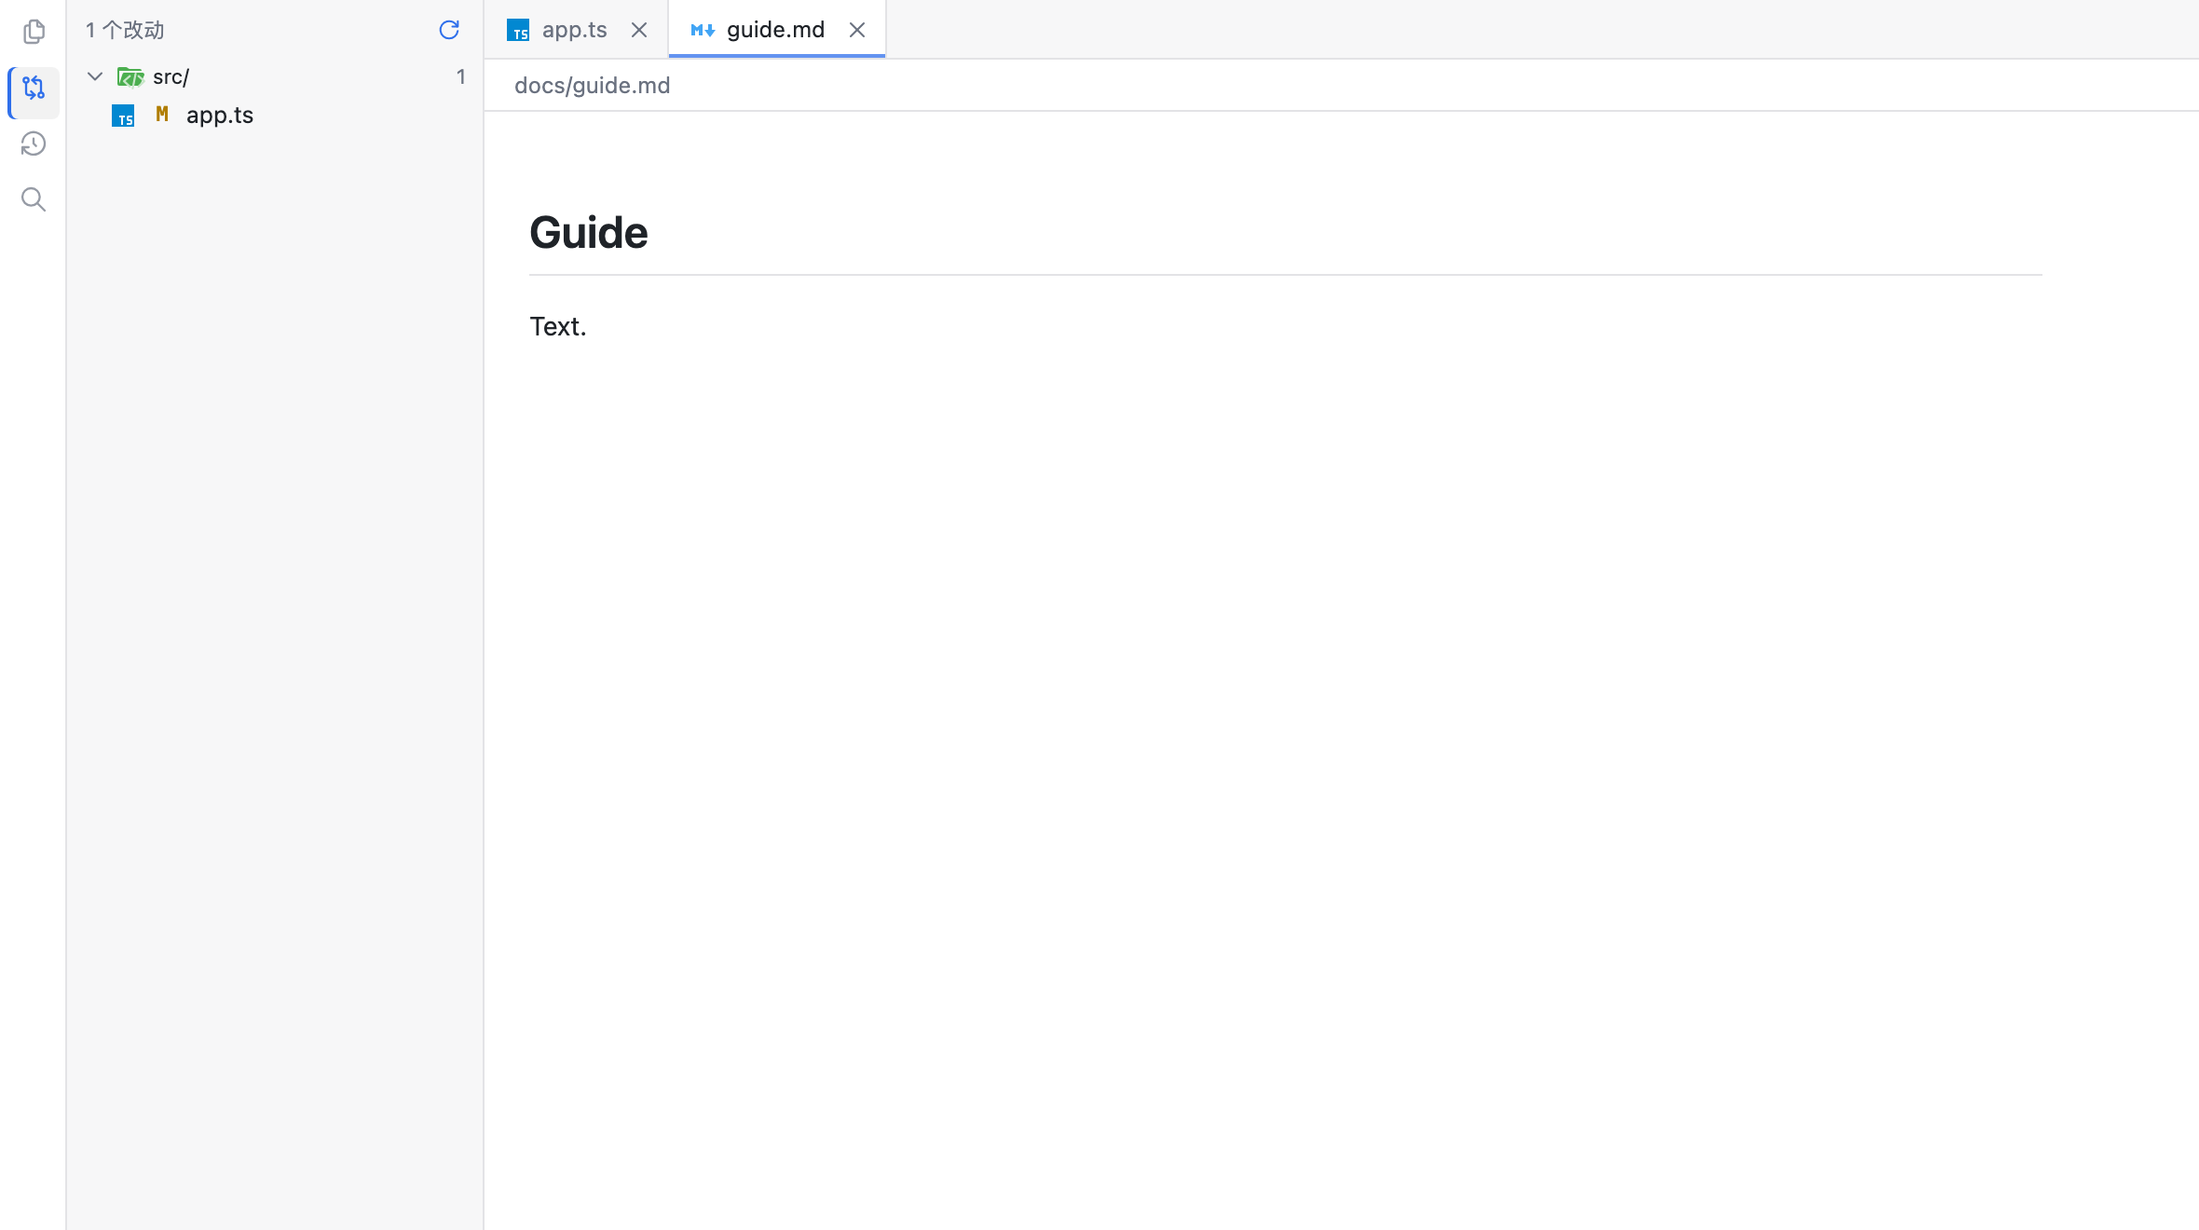
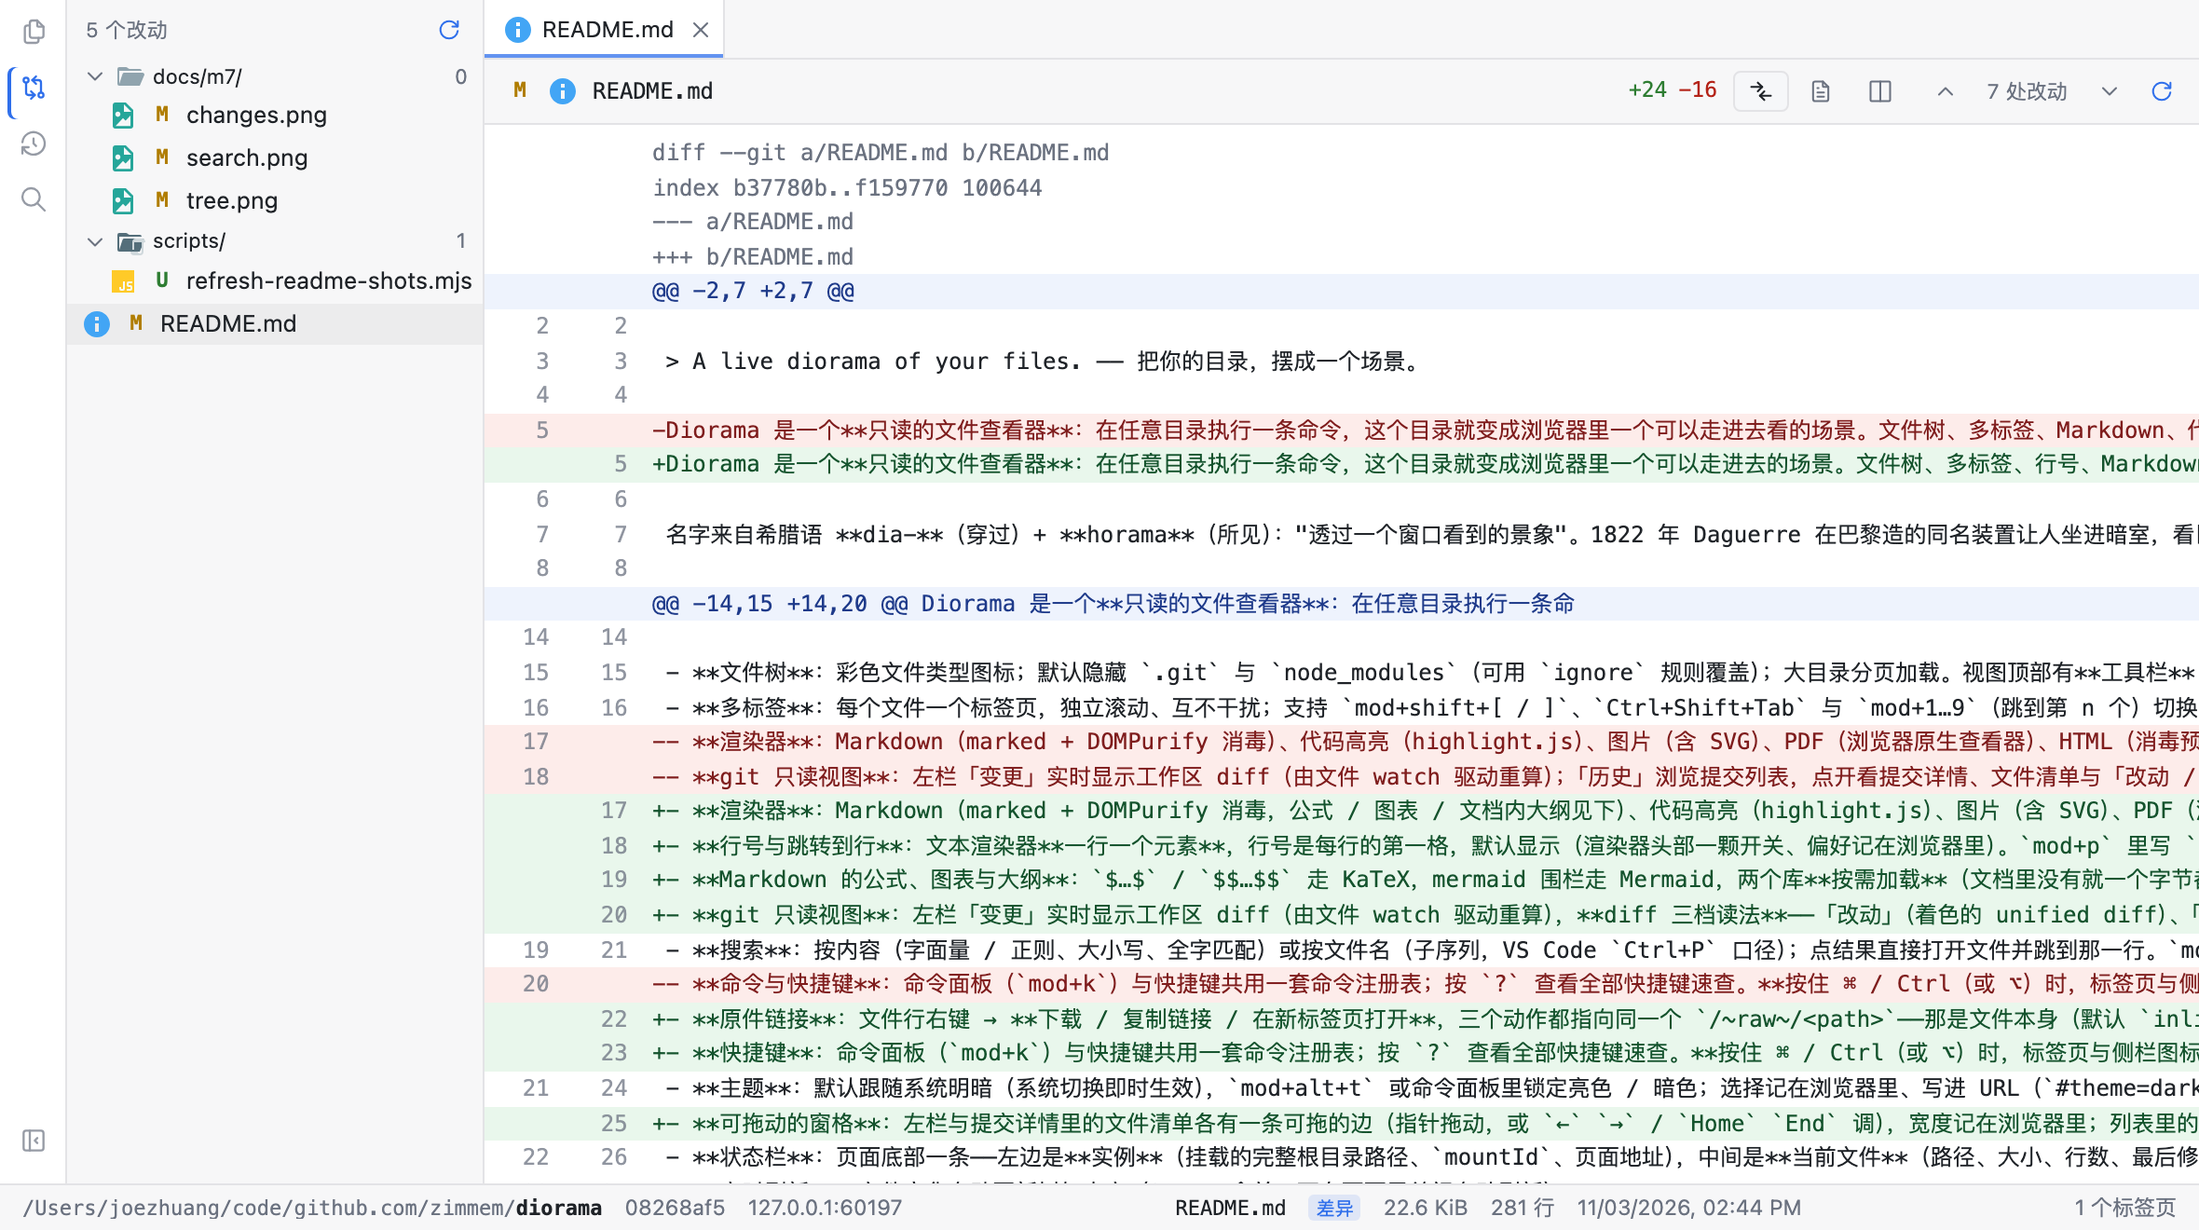
docs(readme): the page the features landed on, and screenshots that show it
The README described the project as of v0.6: no line numbers, no status bar,
no multi-repository git, no raw-file links, no draggable panes, no index page,
and test counts two releases stale (438/174 against a real 448/179). A reader
arriving from npm had no way to see what the thing looks like at all.

The feature list now follows what ships: line numbers and go-to-line, the
Markdown formulas/diagrams/outline, the three diff readers with highlighting,
several repositories in one mount (grouped in changes, a picker in history),
the raw-file link behind the row menu, draggable panes and the folding
sidebar, the IDE-shaped tab keys, the status bar, the gateway index page.
The config sample gains `[git] ignore`, which was implemented but never
written down, and the plugin table says what each piece actually does now.

The picture at the top was three shots from M7 - a fixture directory with two
tabs and no status bar. They are re-taken against this checkout, where the
tree, the diff and the search results are real: source files with line
numbers, the README's own diff in the two-column reader, a content search with
its hits marked. Six more join them in the same table - history, the palette,
the shortcut sheet, the row menu, the README rendered as Markdown with its
outline, and the dark palette - so the gallery stays one table of three
columns instead of a separate section.

`scripts/refresh-readme-shots.mjs` is how they were taken, and how the next
[…]

diff --git a/README.md b/README.md
@@ -2,27 +2,36 @@
 
 > A live diorama of your files. —— 把你的目录，摆成一个场景。
 
-Diorama 是一个**只读的文件查看器**：在任意目录执行一条命令，这个目录就变成浏览器里一个可以走进去看的场景。文件树、多标签、Markdown、代码高亮、图片、PDF、git 变更与历史、文件搜索——每一样能力都是场景里的一块景片（piece），装上插件就多一块。
+Diorama 是一个**只读的文件查看器**：在任意目录执行一条命令，这个目录就变成浏览器里一个可以走进去的场景。文件树、多标签、行号、Markdown（公式 / 图表 / 大纲）、代码高亮、图片、PDF、git 变更与历史（多仓库）、文件搜索、状态栏——每一样能力都是场景里的一块景片（piece），装上插件就多一块。
 
 名字来自希腊语 **dia-**（穿过）+ **horama**（所见）："透过一个窗口看到的景象"。1822 年 Daguerre 在巴黎造的同名装置让人坐进暗室，看巨幅画面随光线变化而"活"起来——常被视为电影的前身。这个名字同时说了两件事：**你能看见什么**（一条命令，目录变成可看、可走的场景），以及**它是怎么来的**（场景不是画出来的，是一块块景片搭出来的）。完整的候选与撞名检查见 [docs/naming.md](docs/naming.md)。
 
-| 文件树 | 变更 | 搜索 |
+| 文件树（行号 / 工具栏 / 状态栏） | 变更（双栏「新旧对照」） | 搜索（内容 / 文件名） |
 |---|---|---|
 | ![文件树](docs/m7/tree.png) | ![变更](docs/m7/changes.png) | ![搜索](docs/m7/search.png) |
+| **历史**（提交详情与对比） | **命令面板**（`mod+k`，带快捷键） | **快捷键速查表**（`?`，不可用的灰显） |
+| ![历史](docs/shots/history.png) | ![命令面板](docs/shots/palette.png) | ![快捷键速查表](docs/shots/help.png) |
+| **原件链接**（右键下载 / 复制链接 / 独立窗口） | **Markdown 渲染**（大纲在旁边） | **暗色主题**（跟随系统 / 锁定） |
+| ![右键菜单](docs/shots/menu.png) | ![Markdown 渲染](docs/shots/markdown.png) | ![暗色主题](docs/shots/dark.png) |
 
 ## 功能一览
 
 - **文件树**：彩色文件类型图标；默认隐藏 `.git` 与 `node_modules`（可用 `ignore` 规则覆盖）；大目录分页加载。视图顶部有**工具栏**：一颗「定位到正在浏览的文件」按钮（`mod+shift+l`，也在命令面板里）——沿路展开目录、滚到那一行并短暂高亮，不打开、不切标签。
 - **多标签**：每个文件一个标签页，独立滚动、互不干扰；支持 `mod+shift+[ / ]`、`Ctrl+Shift+Tab` 与 `mod+1…9`（跳到第 n 个）切换，中键关闭。
-- **渲染器**：Markdown（marked + DOMPurify 消毒）、代码高亮（highlight.js）、图片（含 SVG）、PDF（浏览器原生查看器）、HTML（消毒预览与源码双视图，页面脚本逐文件确认后才执行）、纯文本兜底。渲染器失败时自动回退到下一个，绝不白屏。
-- **git 只读视图**：左栏「变更」实时显示工作区 diff（由文件 watch 驱动重算）；「历史」浏览提交列表，点开看提交详情、文件清单与「改动 / 提交时的内容」对比。
+- **渲染器**：Markdown（marked + DOMPurify 消毒，公式 / 图表 / 文档内大纲见下）、代码高亮（highlight.js）、图片（含 SVG）、PDF（浏览器原生查看器）、HTML（消毒预览与源码双视图，页面脚本逐文件确认后才执行）、纯文本兜底。渲染器失败时自动回退到下一个，绝不白屏。
+- **行号与跳转到行**：文本渲染器**一行一个元素**，行号是每行的第一格，默认显示（渲染器头部一颗开关、偏好记在浏览器里）。`mod+p` 里写 `path:42` / `path:42-60` 直接跳到那一行并闪一下；`shift+;` 打开命令面板并预填 `:`，就是「跳转到第 N 行」。圈选多行是一整块，文字照常复制。
+- **Markdown 的公式、图表与大纲**：`$…$` / `$$…$$` 走 KaTeX，mermaid 围栏走 Mermaid，两个库**按需加载**（文档里没有就一个字节都不下），渲染失败留源码不弹窗；文章旁边一栏目录属于这一篇，点一行滚过去、按滚动位置标记当前小节。
+- **git 只读视图**：左栏「变更」实时显示工作区 diff（由文件 watch 驱动重算），**diff 三档读法**——「改动」（着色的 unified diff）、「整个文件」（单栏，放进文件自己的行号里）、「新旧对照」（双栏，左旧右新），后两档按文件语言上色；「历史」浏览提交列表，点开看提交详情、文件清单与「改动 / 提交时的内容」对比。**一个目录里的多个仓库**（并列或嵌套）各自成组；「历史」顶部一个下拉切换仓库，还没 commit 过的仓库是空列表而不是错误。
 - **搜索**：按内容（字面量 / 正则、大小写、全字匹配）或按文件名（子序列，VS Code `Ctrl+P` 口径）；点结果直接打开文件并跳到那一行。`mod+p` 随时快速打开文件。不做索引，每次现场扫描，遵守 `ignore` 规则。
-- **命令与快捷键**：命令面板（`mod+k`）与快捷键共用一套命令注册表；按 `?` 查看全部快捷键速查。**按住 ⌘ / Ctrl（或 ⌥）时，标签页与侧栏图标会浮出各自的快捷键**——浮层不挤动布局，松手即消失。
+- **原件链接**：文件行右键 → **下载 / 复制链接 / 在新标签页打开**，三个动作都指向同一个 `/~raw~/<path>`——那是文件本身（默认 `inline`、按文件类型返回真实 `content-type`，`?download=1` 才是附件），不是 diorama 页面。
+- **快捷键**：命令面板（`mod+k`）与快捷键共用一套命令注册表；按 `?` 查看全部快捷键速查。**按住 ⌘ / Ctrl（或 ⌥）时，标签页与侧栏图标会浮出各自的快捷键**——浮层不挤动布局，松手即消失。tab 条的键位对齐 IDE：`mod+w` 关、`mod+shift+[ / ]` 循环、`mod+1…9` 按序号跳，中键也能关。
 - **主题**：默认跟随系统明暗（系统切换即时生效），`mod+alt+t` 或命令面板里锁定亮色 / 暗色；选择记在浏览器里、写进 URL（`#theme=dark`），刷新与分享都不闪。**每个目录可以在 `diorama.toml` 的 `[ui] theme` 里给自己的默认主题**（`system` / `light` / `dark` / 某个主题 id）——那是**起点**，你自己选过就以你的为准。第三方插件可以用 `ctx.theme.register({ id, title, scheme, tokens })` 加主题——一组 CSS 自定义属性，不用写 UI 就出现在命令面板里。
+- **可拖动的窗格**：左栏与提交详情里的文件清单各有一条可拖的边（指针拖动，或 `←` `→` / `Home` `End` 调），宽度记在浏览器里；列表里的长名字**不截断**，横向滚那一栏。侧栏还能收起，只剩一条 36px 的图标条（`mod+b`，点当前那个图标也收起）。
 - **状态栏**：页面底部一条——左边是**实例**（挂载的完整根目录路径、`mountId`、页面地址），中间是**当前文件**（路径、大小、行数、最后修改时间；diff 标签页另有「差异」标记），右边是标签页数量。它由一个内置 piece 填充，去掉那个 piece 就没有这条栏。
 - **实时刷新**：文件变化自动更新树与内容（300ms 合并，可在页面里关闭自动刷新）。
 - **网页标题是目录名**：浏览器标签条上写的是这个挂载的目录（`basename`），同时开着几个目录一眼分得清。
-- **URL 深链**：`/~/<路径>` 直接打开某个文件，刷新后恢复活动标签；git 视图的 `#diff`、`#history=<sha>` 同样可分享。
+- **URL 深链**：`/~/<路径>` 直接打开某个文件，刷新后恢复活动标签；git 视图的 `#diff`、`#history=<sha>`、主题的 `#theme=dark` 同样可分享。
+- **一个常驻 gateway，多个目录**：整台机器只有一个 `diorama gateway`，每个目录独立端口、独立插件树；再给一个固定端口，就有一个**跨重启不变**的索引页（见下）。
 
 **不做的事**：编辑、保存、重命名、删除，git 写操作——Diorama 是只读查看器，被浏览的目录永远不会被写入。
 
@@ -113,6 +122,7 @@ maxDirectories = 64         # 每个目录同时监听的目录数上限（1–4
 [git]
 maxDepth = 3                # 向下找仓库的层数（0–64）
 maxRepos = 32               # 一个挂载最多报多少个仓库（1–4096）
+ignore = [".git", "node_modules"]   # 找仓库时剪掉的目录（不写 = 用上面的 ignore）
 
 [html]
 scripts = false             # HTML 预览是否默认执行页面脚本（默认 false：逐文件确认）
@@ -213,16 +223,16 @@ scripts/                  生成器（图标表；pnpm icons 重新生成）
 | 插件 | 职责 |
 |---|---|
 | `slots` | 座位（slot）注册表，所有组合的基础设施 |
-| `layout` | 页面骨架：左右分栏、侧栏视图切换器、覆盖层座位 |
-| `file-tree` | 左侧文件树视图 |
-| `tabs` | 多标签：打开、切换、关闭，每个标签一个内容座位（隐藏不卸载） |
+| `layout` | 页面骨架：左右分栏、可拖的边、侧栏视图切换器（可收起）、覆盖层座位、状态栏座位 |
+| `file-tree` | 左侧文件树视图（顶部工具栏：定位到正在浏览的文件；右键：下载 / 复制链接 / 在新标签页打开） |
+| `tabs` | 多标签：打开、切换、关闭，每个标签一个内容座位（隐藏不卸载）；提交详情也是它画的座位 |
 | `renderer-registry` | 按扩展名 → MIME → 内容探测三档派发渲染器，带回退链 |
-| `plaintext` | 纯文本兜底渲染器 |
-| `markdown` / `code` / `image` / `pdf` / `html` | 各文件类型的渲染器 |
-| `palette` | 命令面板（`mod+k`），只列当前可执行的命令 |
+| `plaintext` | 纯文本兜底渲染器（带行号） |
+| `markdown` / `code` / `image` / `pdf` / `html` | 各文件类型的渲染器（`code` 同时是页面上唯一的语法高亮引擎来源，diff 的单栏 / 双栏读法用它上色） |
+| `palette` | 命令面板（`mod+k`），只列当前可执行的命令，带快捷键与 go to line |
 | `help` | 快捷键速查表（`?`），列出全部绑定 |
 | `theme` | 主题命令（跟随系统 / 亮色 / 暗色，`mod+alt+t`）与每个已注册主题的 `theme.use:<id>` |
-| `git-changes` | 左栏「变更」与「历史」视图、diff 与提交详情座位 |
+| `git-changes` | 左栏「变更」与「历史」视图、diff 与提交详情座位（多仓库分组 / 下拉切换） |
 | `search-view` | 左栏「搜索」视图与 `mod+p` 快速打开 |
 | `status-bar` | 页面底部的状态栏（实例信息与当前文件） |
 
@@ -237,9 +247,9 @@ scripts/                  生成器（图标表；pnpm icons 重新生成）
 ```bash
 pnpm install
 pnpm build                 # 全量构建（含各包的类型声明产出）
-pnpm test:unit             # node --test，438 条单测
+pnpm test:unit             # node --test，448 条单测
 pnpm -r --no-sort run typecheck   # 注意：不要用 pnpm typecheck（任务图成环，会失败）
-pnpm --filter diorama-web exec playwright test   # 174 条端到端，真实 CLI + Chromium
+pnpm --filter diorama-web exec playwright test   # 179 条端到端，真实 CLI + Chromium
 ```
 
 端到端测试跑的是构建产物（`packages/*/lib`、`apps/web/dist`），改了源码先 `pnpm build` 再跑；每个用例使用独立的 `DIORAMA_HOME` 与 gateway，不碰真实的 `~/.diorama`。
@@ -255,6 +265,8 @@ diorama-beta .
 
 发布：`pnpm pack:prepare`（= 全量构建 + 组装单包）后在 `packages/cli` 里 `npm publish`，产物是 `@diorama-cli/diorama`。组装会把根 `README.md` 拷进包目录（npm 只认包目录里的 README），并把其中的相对链接改写成仓库地址——npmjs.com 上渲染的那一页没有 `docs/` 目录。
 
+README 的截图用 `scripts/refresh-readme-shots.mjs` 重新截：先 `diorama-beta .` 起一个实例（对着本仓库的源码目录，界面才够丰富），再 `DIORAMA_URL=<实例地址> node scripts/refresh-readme-shots.mjs`（`--only history,palette` 可只重截其中几张）。
+
 ### 文档索引
 
 | 文档 | 回答什么 |
@@ -263,11 +275,11 @@ diorama-beta .
 | [docs/architecture.md](docs/architecture.md) | **为什么**：已拍板的决定、放弃项与代价 |
 | [docs/features.md](docs/features.md) | **有什么**：能力清单与档位（✅ / 待定 / 明确不做） |
 | [docs/plan.md](docs/plan.md) | 阶段性排期与各里程碑的验收标准 |
-| [docs/m0…m14/spec.md](docs/) | 每一档的实施说明与踩坑记录 |
+| [docs/m0…m30/spec.md](docs/) | 每一档的实施说明与踩坑记录（最近一档：[m30](docs/m30/spec.md)，状态栏） |
 
 ## 状态与许可
 
 - 契约版本 `0.0.9`（pre-1.0 线：破坏性变更以 `0.0.x` 递增表达；插件声明 `>=0.0.9 <0.1.0`）。
-- 已实现：文件树、多标签、五类渲染器、git 变更与历史（diff 三档读法：行内 / 整文件单栏 / 新旧双栏）、文件搜索、命令面板与快捷键体系、watch、URL 深链、图标、明暗主题（跟随系统 / 锁定 / 第三方主题注册）、gateway 多目录挂载、`diorama.toml` 配置、挂载的 `--json` 输出、**一个目录里的多个 git 仓库**（并列与嵌套，变更 / 历史按仓库分组）、**可拖动的窗格**与长名字横滚、**侧栏可收起**、按住 ⌘ / Ctrl / ⌥ 时的快捷键浮层提示、**文件视图工具栏**（定位到正在浏览的文件）、**文件的原件链接**（右键下载 / 复制链接 / 在新标签页打开，`/~raw~/<path>`）、**行号与跳转到行**（文本渲染器一行一个元素，行号默认显示且可关；`mod+p` 认 `path:42` / `path:42-60`，palette 里以 `:` 开头即 go to line，`shift+;` 直接打开并预填 `:`；跨行圈选是一整块）、**gateway 的索引页**（`[gateway] port` 一给，就有一个跨重启不变的地址：列出每个挂载的目录与 URL，点开即新窗口）。438 条单测 + 174 条端到端全部通过。
+- 已实现：文件树、多标签、五类渲染器、git 变更与历史（diff 三档读法：行内 / 整文件单栏 / 新旧双栏，后两档带语法高亮）、文件搜索、命令面板与快捷键体系（按住 ⌘ / Ctrl / ⌥ 时浮出快捷键）、watch、URL 深链、图标、明暗主题（跟随系统 / 锁定 / 第三方主题注册 / 每个目录一个起点）、gateway 多目录挂载与**索引页**、`diorama.toml` 配置与 `diorama config`、挂载的 `--json` 输出、`diorama stop`、**一个目录里的多个 git 仓库**（并列与嵌套；历史视图下拉切换）、**可拖动的窗格**与长名字横滚、**侧栏可收起**、**文件视图工具栏**（定位到正在浏览的文件）、**文件的原件链接**（`/~raw~/<path>`）、**行号与跳转到行**（`path:42`、`:` 开头的 go to line、跨行圈选是一整块）、**Markdown 的公式 / 图表 / 文档内大纲**、**网页标题是目录名**、**页面底部的状态栏**。448 条单测 + 179 条端到端全部通过。
 - 尚未做：外部插件加载（`~/.diorama/plugins` 与 npm 来源）、界面语言（i18n）、编辑能力（永远不会做——这是只读查看器）。
 - [MIT](LICENSE)
